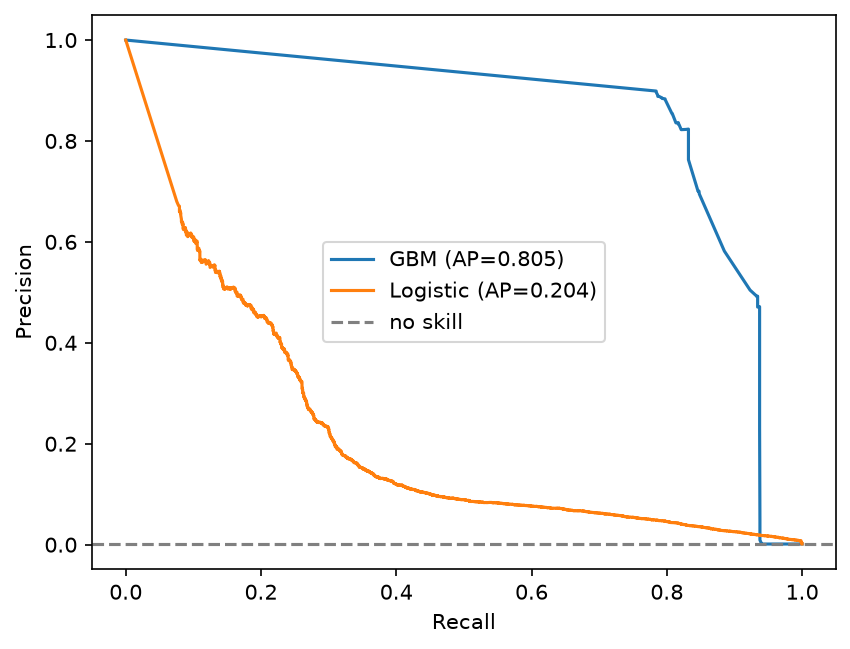
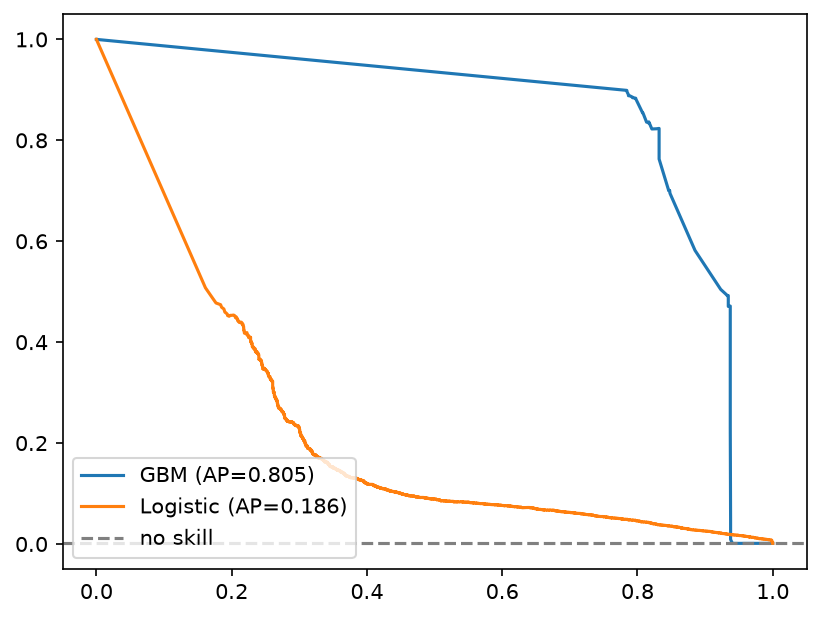
Fraud detection model: PaySim, GBM PR-AUC 0.805

Changed region(s): [[0.0, 0.0, 1.0, 0.9822], [0.3654, 0.3683, 0.7004, 0.5525]]

diff --git a/README.md b/README.md
@@ -34,6 +34,8 @@ Confusion matrix at 0.90: TN 1,588,238 / FP 364 / FN 367 / TP 1,686. The 0.90 th
 
 **Drivers:** the model relies mostly on `amount_over_balance`, `amount`, and transaction type (TRANSFER, CASH_OUT); `hour` contributes little.
 
+   ![PR curves](results/figures/pr_curves.png)
+
 ### Limitations
 - Recall plateaus near 93%. About 135 test frauds (6.6%) score near zero; most are CASH_OUT transactions that drain the origin into a destination with an existing balance. About 430,000 legitimate transactions share that profile (0.17% fraud), so with current features they are largely indistinguishable.
 - A time-based split (train on the first 80% of steps) gave PR-AUC 1.000. I do not treat this as reliable: no post-transaction features are present (checked), but the late test period has a different fraud rate (0.34%), and the likely explanation (the period is easier to separate) is unverified.
